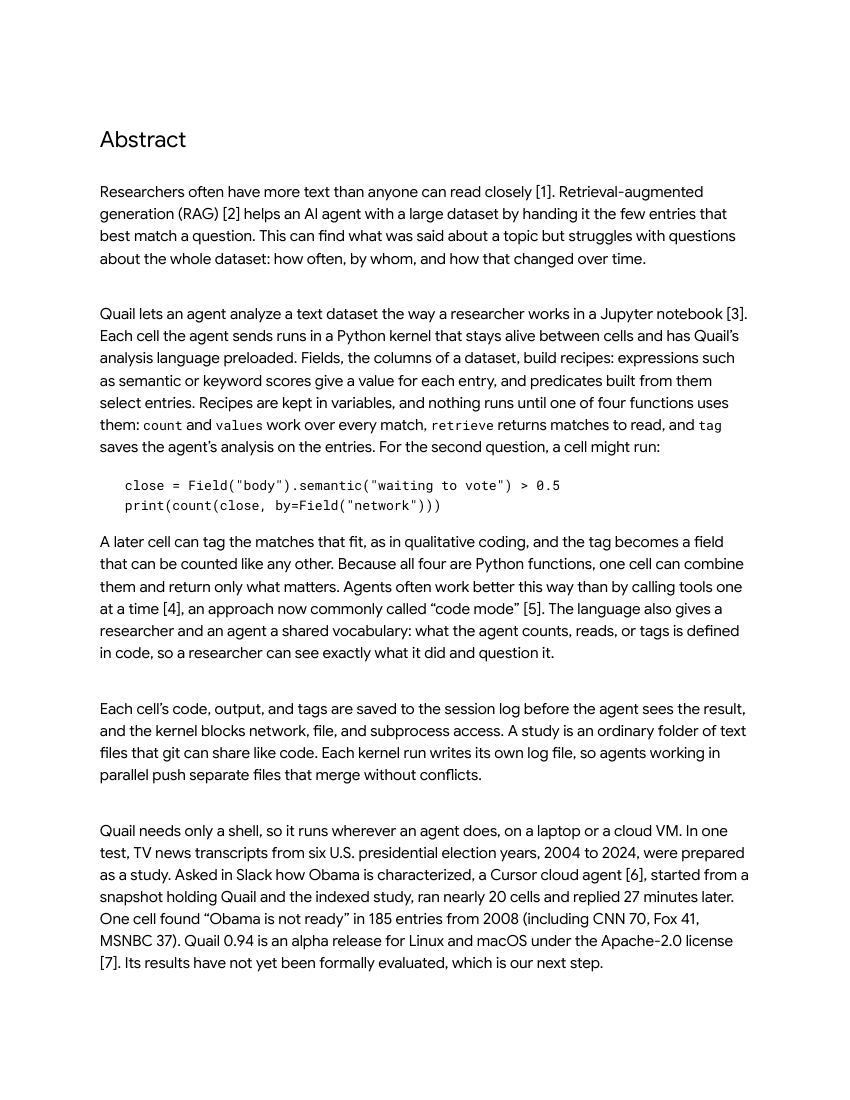
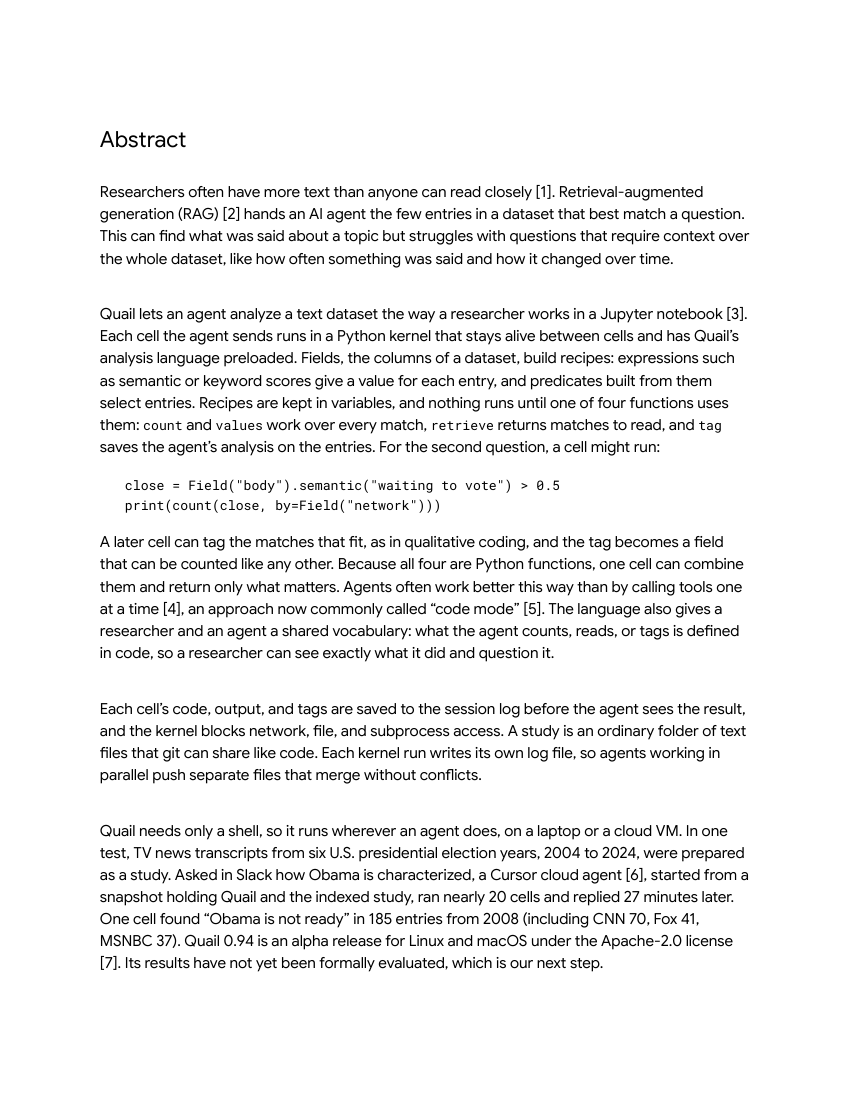
Reword the RAG contrast around context over the whole dataset
Trim the abstract's RAG sentence so the abstract keeps its page.

Claude-Session: https://claude.ai/code/session_01ChZ8DmmKvsKSV4JFVieZLU

Changed region(s): [[0.1224, 0.1855, 0.8871, 0.2473]]

diff --git a/poster/abstract.html b/poster/abstract.html
@@ -33,7 +33,7 @@
 
 <div class="page" id="abstract">
 <h2>Abstract</h2>
-<p>Researchers often have more text than anyone can read closely [1]. Retrieval-augmented generation (RAG) [2] helps an AI agent with a large dataset by handing it the few entries that best match a question. This can find what was said about a topic but struggles with questions about the whole dataset: how often, by whom, and how that changed over time.</p>
+<p>Researchers often have more text than anyone can read closely [1]. Retrieval-augmented generation (RAG) [2] hands an AI agent the few entries in a dataset that best match a question. This can find what was said about a topic but struggles with questions that require context over the whole dataset, like how often something was said and how it changed over time.</p>
 <p>Quail lets an agent analyze a text dataset the way a researcher works in a Jupyter notebook [3]. Each cell the agent sends runs in a Python kernel that stays alive between cells and has Quail&rsquo;s analysis language preloaded. Fields, the columns of a dataset, build recipes: expressions such as semantic or keyword scores give a value for each entry, and predicates built from them select entries. Recipes are kept in variables, and nothing runs until one of four functions uses them: <code>count</code> and <code>values</code> work over every match, <code>retrieve</code> returns matches to read, and <code>tag</code> saves the agent&rsquo;s analysis on the entries. For the second question, a cell might run:</p>
 <pre>close = Field("body").semantic("waiting to vote") &gt; 0.5
 print(count(close, by=Field("network")))</pre>

diff --git a/poster/poster.html b/poster/poster.html
@@ -27,7 +27,7 @@
 <section id="why">
   <h2>Beyond retrieval</h2>
   <p class="lede">While text retrieval shows an agent a few examples, Quail gives it a Python kernel and an analysis language, in order to make sense of the whole dataset.</p>
-  <p>Researchers often have more text than anyone can read closely.<sup>1</sup> LLMs can help, and one common way is through retrieval-augmented generation (RAG),<sup>2</sup> which gives a language model the few entries that best match a query. Standard RAG can find what was said about a topic but struggles with questions about the whole dataset: how often something was said, by whom, and how it changed over time.</p>
+  <p>Researchers often have more text than anyone can read closely.<sup>1</sup> LLMs can help, and one common way is through retrieval-augmented generation (RAG),<sup>2</sup> which gives a language model the few entries that best match a query. Standard RAG can find what was said about a topic but struggles with questions that require context over the whole dataset, like how often something was said and how it changed over time.</p>
   <figure><img src="figures/corpus.svg" alt="The same 40-entry dataset four times: retrieval picks five entries; counting finds all twelve matches; values returns one value from each match as a Python list; tagging marks ten as fitting and two as not"></figure>
 </section>
 
